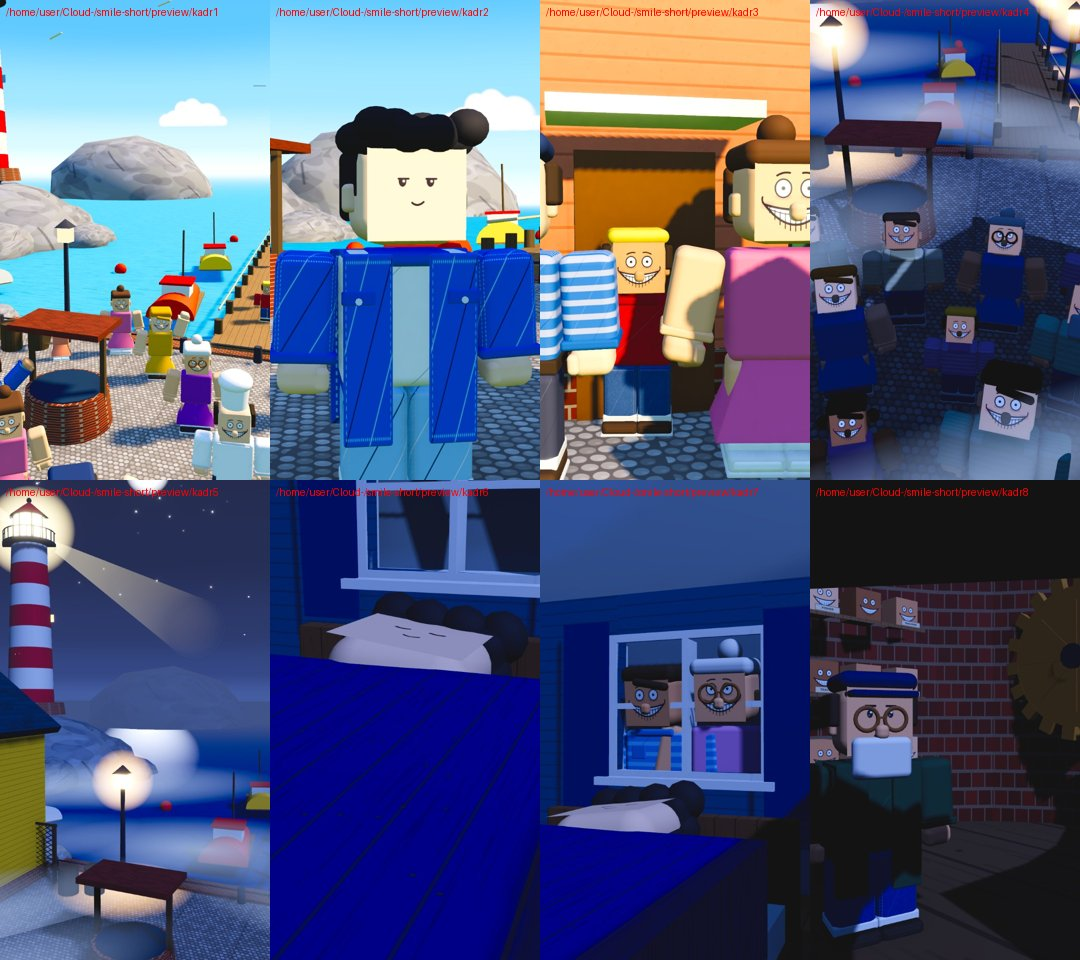
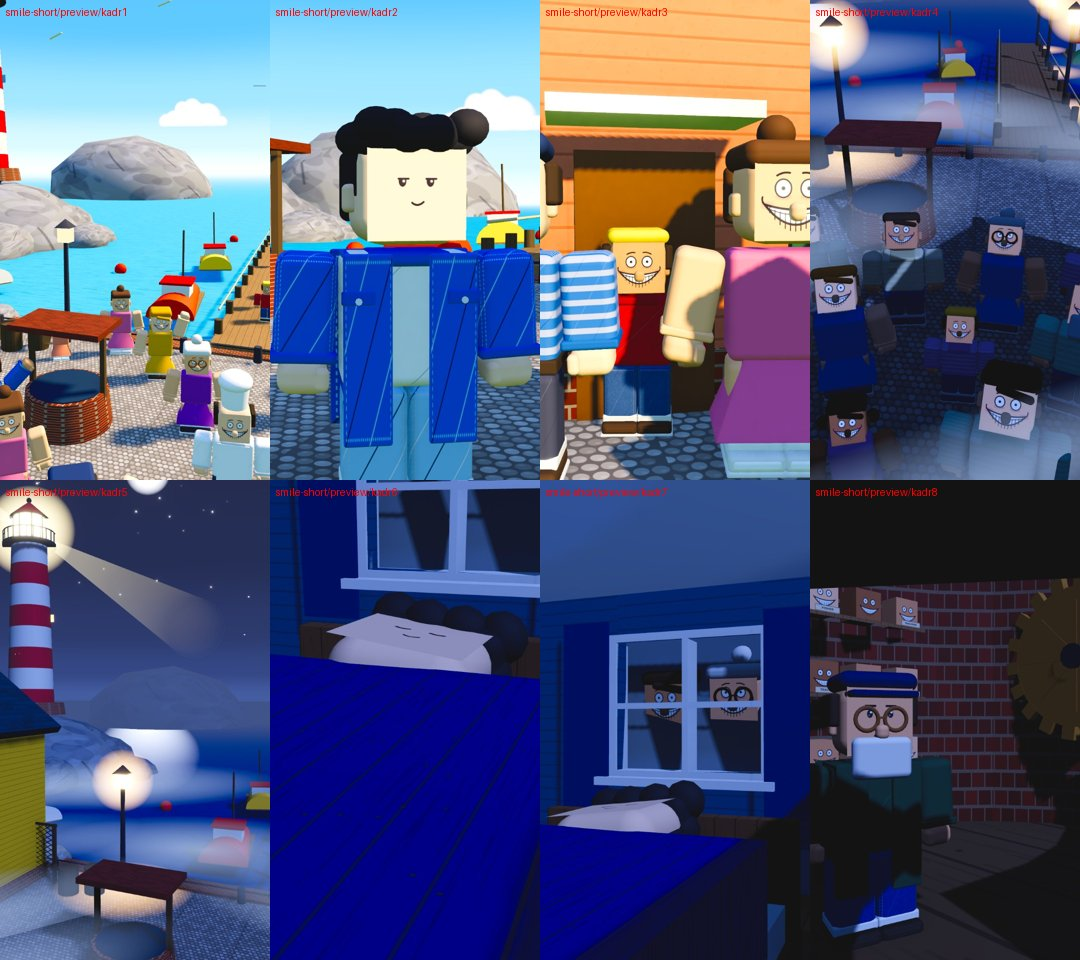
Smile preview: window faces stand clear behind the glass
Claude-Session: https://claude.ai/code/session_015cysGVtzFBcW8zaH4Ua152

diff --git a/pisa-short/app/src/videos/smile/cast.ts b/pisa-short/app/src/videos/smile/cast.ts
@@ -237,7 +237,7 @@ export const stage = (id: number, t: number, cam: CamInfo): Stage => {
     case 6: leo("neutral", { mode: "lie", yaw: 0, blink: 1, y: 0.83 }, [BED[0], 0.62, BED[2] + 1.12], LEO_BED); break;
     case 7: { // faces at the window over the sleeping boy
       leo("neutral", { mode: "lie", yaw: 0, blink: 1, y: 0.83 }, [BED[0], 0.62, BED[2] + 1.12], LEO_BED);
-      const wz = RWIN[2] - 0.55;
+      const wz = RWIN[2] - 1.05; // the window wall is 0.3-0.5 m behind RWIN; keep their chests and noses clear of glass and sill
       [[-0.36, 0.02, 0], [0.36, 0.06, 0], [0.0, 0.14, -0.7]].forEach(([dx, dy, dz], i) => (creep(i + 3, [RWIN[0] + dx, dy - (1.62 - RWIN[1]) - 0.05, wz + dz], { yaw: 0.15 * dx, headTilt: 6 }, PJ(TOWN[(i + 3) % TOWN.length], i)).nosep = true));
       break;
     }
